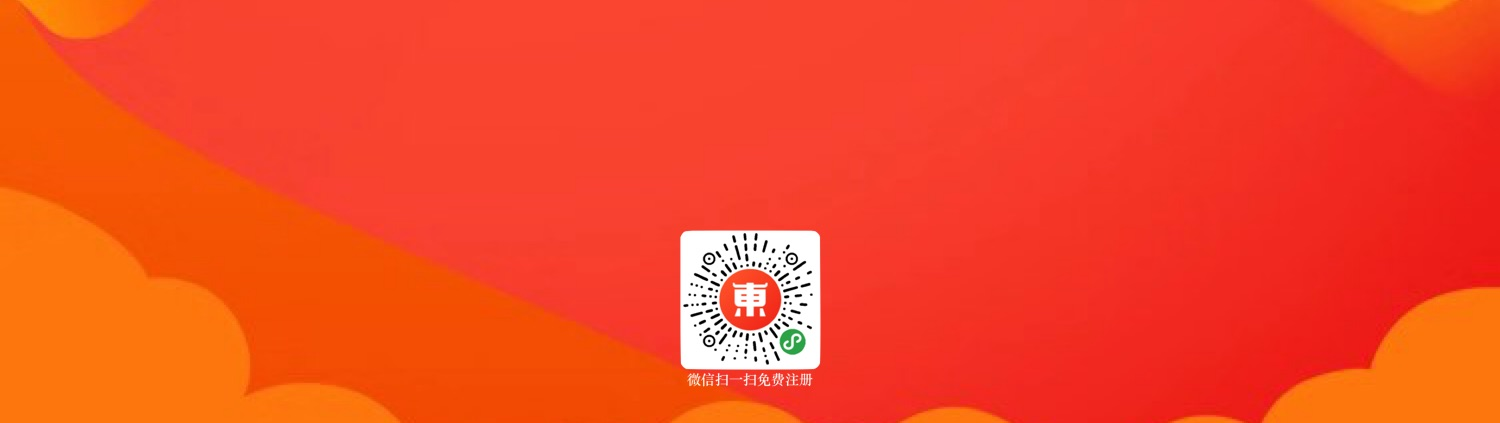
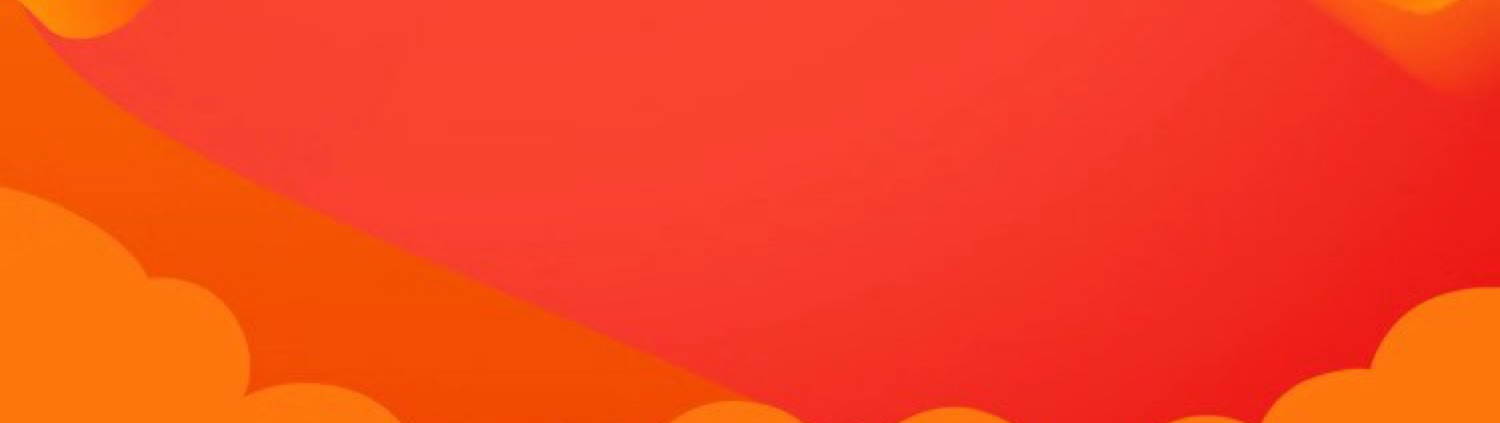
Site updated: 2020-03-23 00:22:23

Changed region(s): [[0.4293, 0.5225, 0.552, 0.922]]

diff --git a/2020/03/22/hello-world/index.html b/2020/03/22/hello-world/index.html
@@ -51,6 +51,7 @@
           
         </h2>
       
+      <img src="/css/images/qrcode.png" style="width:140px;height:160px;margin-top:80px;"/>
     </div>
     <div id="header-inner" class="inner">
       <nav id="main-nav">

diff --git a/2020/03/22/how_to_join/index.html b/2020/03/22/how_to_join/index.html
@@ -51,6 +51,7 @@
           
         </h2>
       
+      <img src="/css/images/qrcode.png" style="width:140px;height:160px;margin-top:80px;"/>
     </div>
     <div id="header-inner" class="inner">
       <nav id="main-nav">

diff --git a/archives/2020/03/index.html b/archives/2020/03/index.html
@@ -49,6 +49,7 @@
           
         </h2>
       
+      <img src="/css/images/qrcode.png" style="width:140px;height:160px;margin-top:80px;"/>
     </div>
     <div id="header-inner" class="inner">
       <nav id="main-nav">

diff --git a/archives/2020/index.html b/archives/2020/index.html
@@ -49,6 +49,7 @@
           
         </h2>
       
+      <img src="/css/images/qrcode.png" style="width:140px;height:160px;margin-top:80px;"/>
     </div>
     <div id="header-inner" class="inner">
       <nav id="main-nav">

diff --git a/archives/index.html b/archives/index.html
@@ -49,6 +49,7 @@
           
         </h2>
       
+      <img src="/css/images/qrcode.png" style="width:140px;height:160px;margin-top:80px;"/>
     </div>
     <div id="header-inner" class="inner">
       <nav id="main-nav">

diff --git a/index.html b/index.html
@@ -49,6 +49,7 @@
           
         </h2>
       
+      <img src="/css/images/qrcode.png" style="width:140px;height:160px;margin-top:80px;"/>
     </div>
     <div id="header-inner" class="inner">
       <nav id="main-nav">
